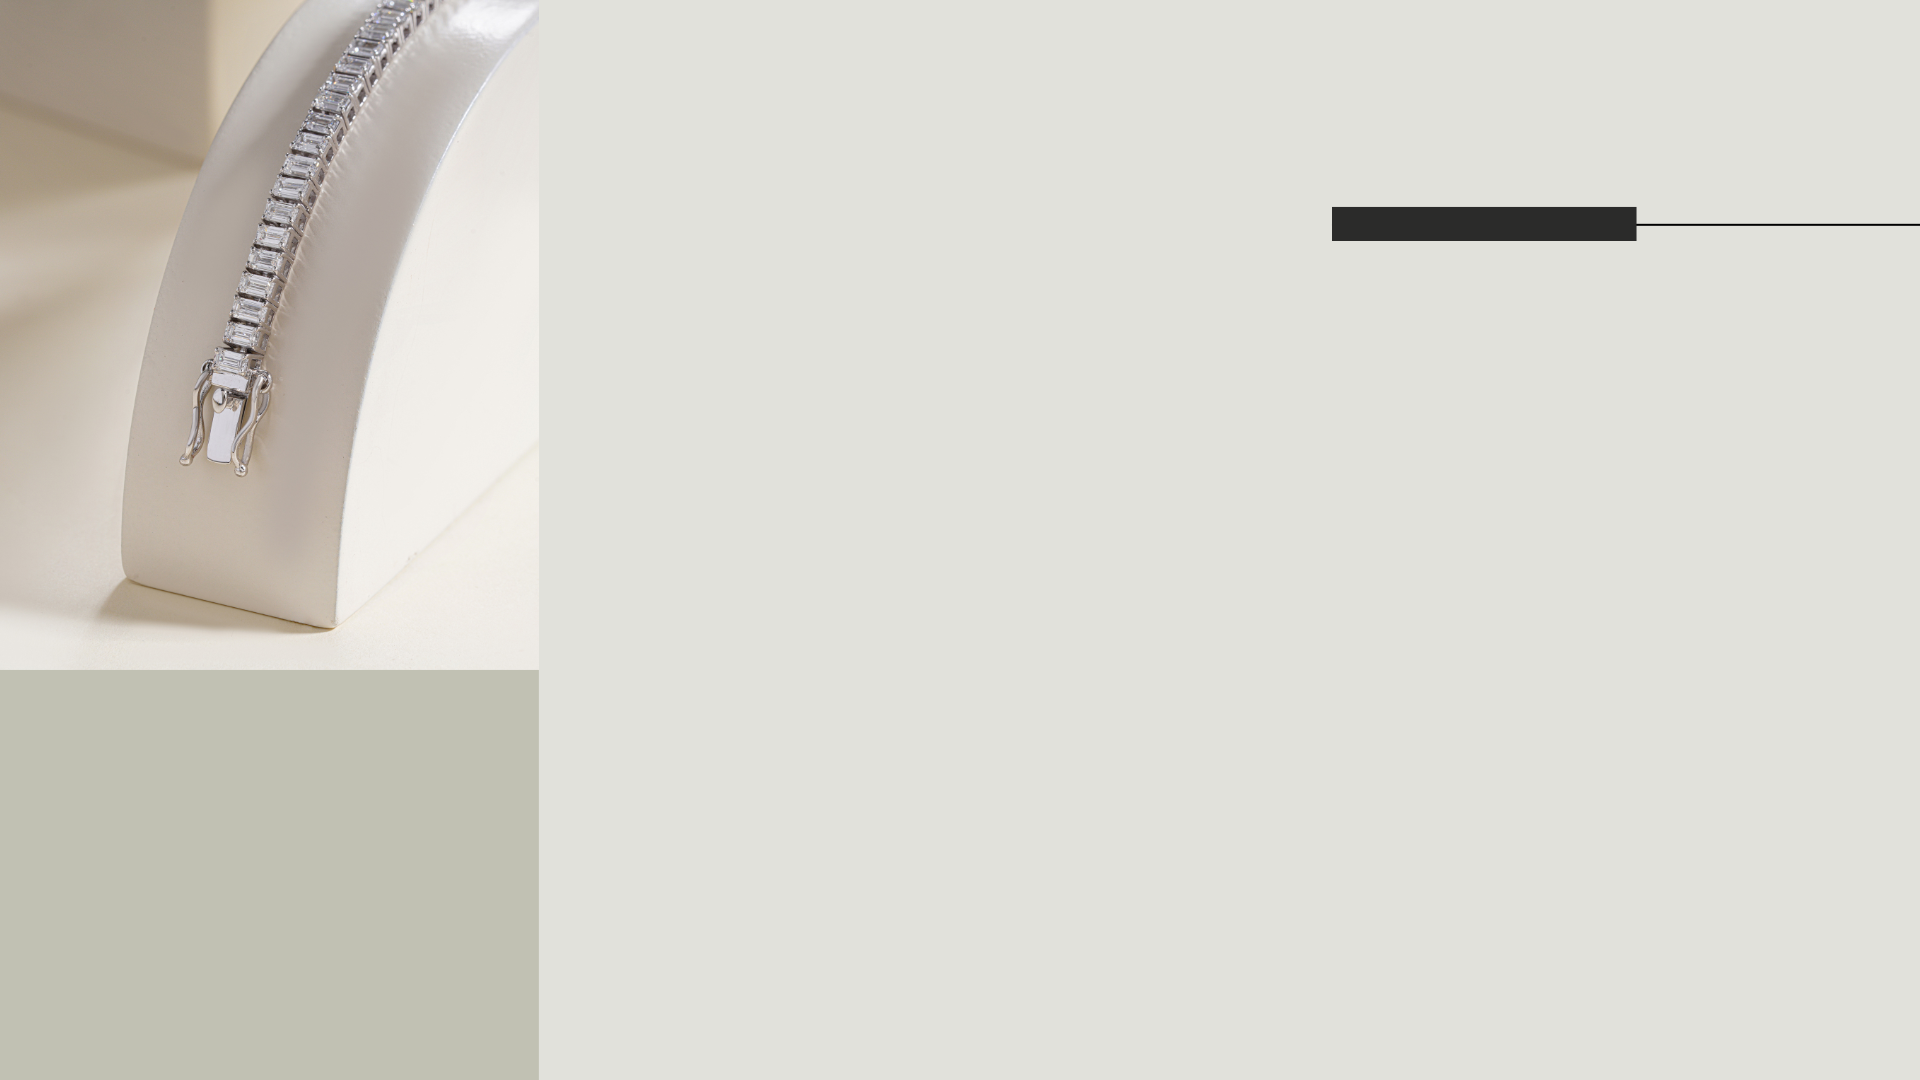
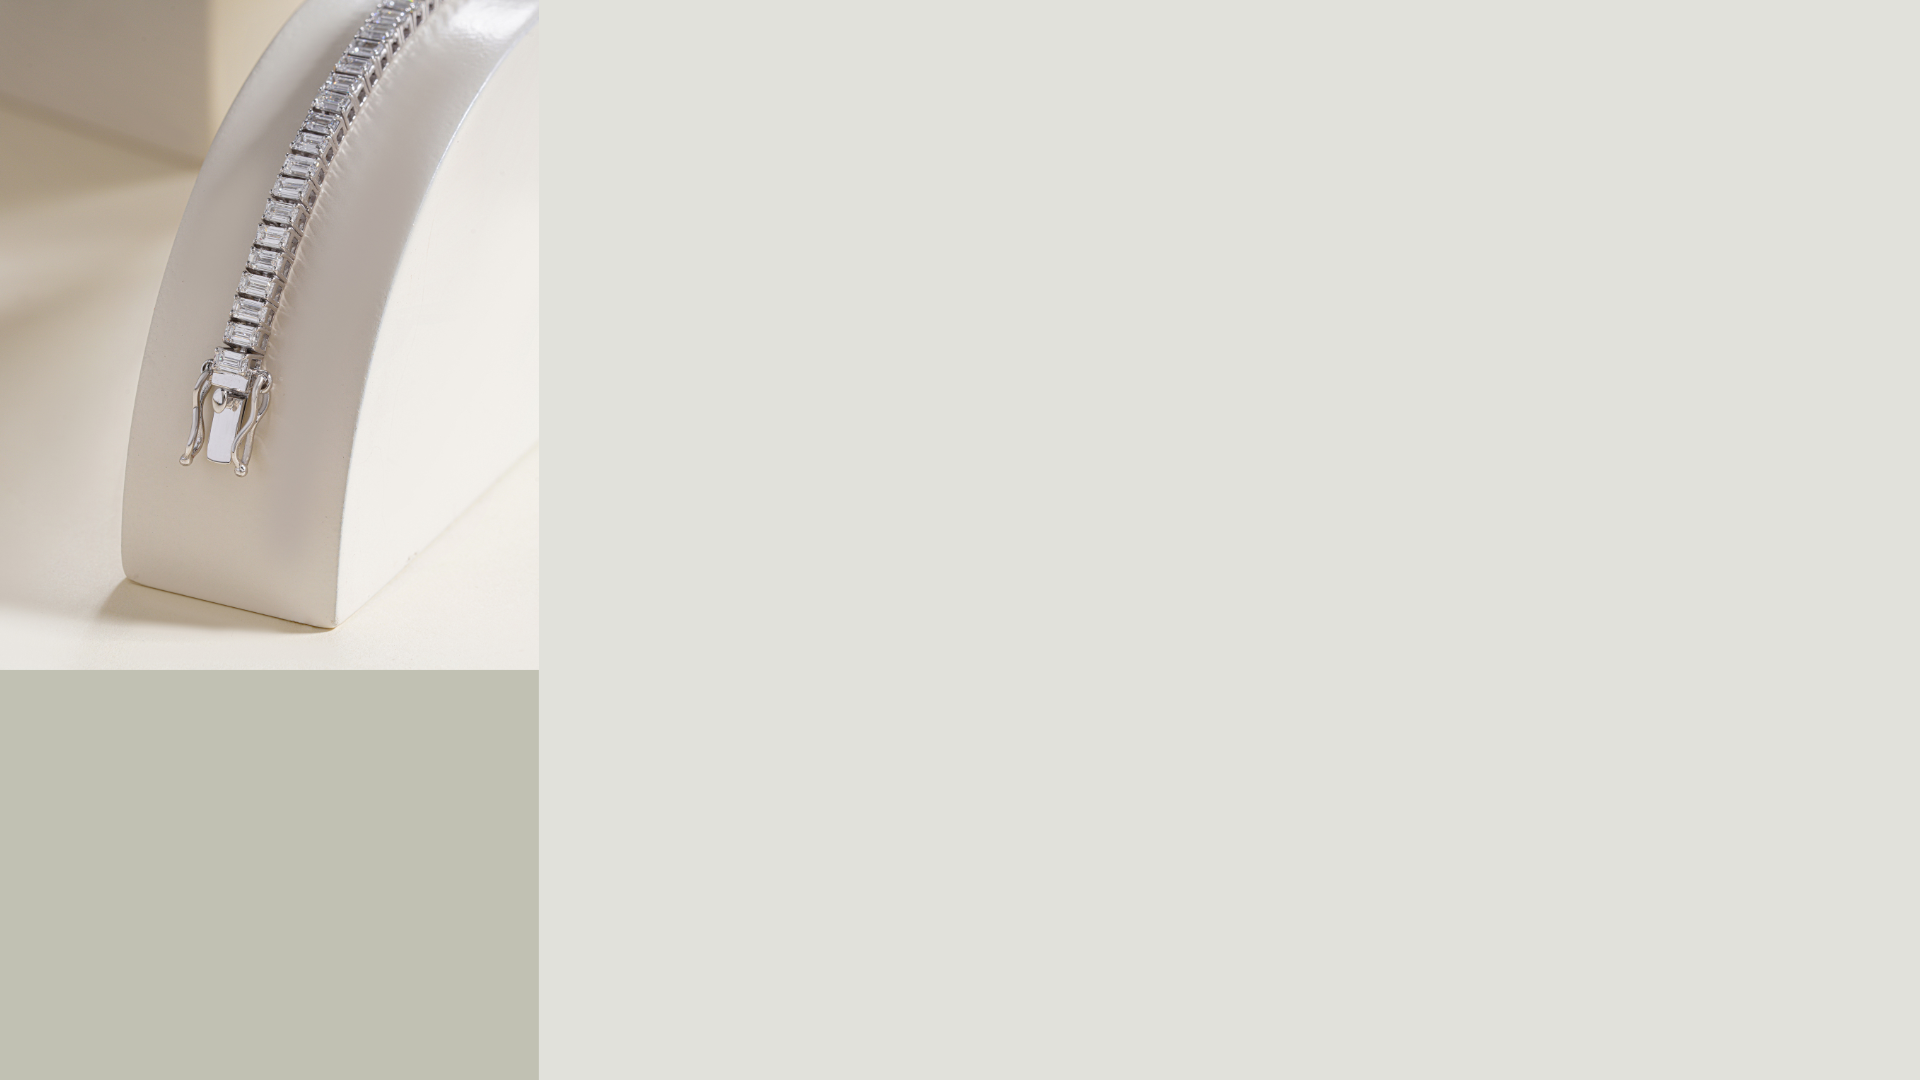
improve: mobile view

Changed region(s): [[0.6875, 0.1833, 0.875, 0.2444]]

diff --git a/src/components/CatalogSwiper.jsx b/src/components/CatalogSwiper.jsx
@@ -7,31 +7,68 @@ import "swiper/css/navigation";
 import "swiper/css/pagination";
 import "swiper/css/effect-fade";
 import WelcomePage from "@/components/WelcomePage";
-import Product from "@/components/Product";
 import ContactUs from "@/components/ContactUs";
 import AboutUs from "@/components/AboutUs";
+import { useEffect, useState, useRef } from "react";
+import { Pause, Play } from "lucide-react"; // Import play/pause icons
+import Products from "@/components/Products";
 
 const CatalogSwiper = () => {
+  const [isPlaying, setIsPlaying] = useState(true);
+  const [progress, setProgress] = useState(0);
+  const swiperRef = useRef(null);
+
+  useEffect(() => {
+    const prevButton = document.querySelector(".swiper-button-prev");
+    const nextButton = document.querySelector(".swiper-button-next");
+
+    if (prevButton && nextButton) {
+      prevButton.classList.add("text-black", "scale-50");
+      nextButton.classList.add("text-black", "scale-50");
+    }
+  }, []);
+
+  useEffect(() => {
+    if (swiperRef.current) {
+      const swiper = swiperRef.current.swiper;
+
+      const updateProgress = () => {
+        const currentSlide = swiper.realIndex + 1;
+        const totalSlides = swiper.slides.length;
+        setProgress((currentSlide / totalSlides) * 100);
+      };
+
+      swiper.on("slideChange", updateProgress);
+      return () => swiper.off("slideChange", updateProgress);
+    }
+  }, []);
+
+  const togglePlayPause = () => {
+    if (swiperRef.current) {
+      if (isPlaying) {
+        swiperRef.current.swiper.autoplay.stop();
+      } else {
+        swiperRef.current.swiper.autoplay.start();
+      }
+      setIsPlaying(!isPlaying);
+    }
+  };
+
   return (
-    <div className="flex justify-center items-center">
+    <div className="flex justify-center items-center relative">
       <Swiper
-        modules={[Navigation, Pagination, EffectFade, Autoplay]}
+        ref={swiperRef}
+        modules={[Navigation, Pagination, EffectFade]}
         navigation
         pagination={{ clickable: true }}
         effect="fade"
-        autoplay={{ delay: 3000, disableOnInteraction: false }}
-        cubeEffect={{
-          shadow: true,
-          slideShadows: true,
-          shadowOffset: 20,
-          shadowScale: 0.94,
-        }}
+        // autoplay={isPlaying ? { delay: 3000, disableOnInteraction: false } : false}
         className="xl:w-[140vmin] h-[95vmin] aspect-square"
       >
         {[
           { component: <WelcomePage />, key: "welcome" },
           { component: <AboutUs />, key: "about" },
-          { component: <Product />, key: "product" },
+          { component: <Products />, key: "product" },
           { component: <ContactUs />, key: "contact" },
         ].map(({ component, key }) => (
           <SwiperSlide
@@ -42,6 +79,24 @@ const CatalogSwiper = () => {
           </SwiperSlide>
         ))}
       </Swiper>
+
+      {/* Bottom Controls */}
+      <div className="absolute bottom-0 left-0 w-full bg-black bg-opacity-80 py-2 flex items-center justify-between px-4">
+        {/* Play/Pause Button */}
+        <button onClick={togglePlayPause} className="text-white">
+          {isPlaying ? <Pause size={24} /> : <Play size={24} />}
+        </button>
+
+        {/* Progress Bar */}
+        <div className="flex-grow mx-4">
+          <div className="relative w-full h-2 bg-gray-700 rounded">
+            <div
+              className="absolute top-0 left-0 h-2 bg-blue-500 rounded"
+              style={{ width: `${progress}%` }}
+            ></div>
+          </div>
+        </div>
+      </div>
     </div>
   );
 };

diff --git a/src/components/AboutUs.jsx b/src/components/AboutUs.jsx
@@ -1,10 +1,10 @@
-import React from 'react'
-import background from '../../public/images/about-us_bg.png'
-import Image from 'next/image'
+import React from 'react';
+import background from '../../public/images/about-us_bg.png';
+import Image from 'next/image';
 
 function AboutUs() {
     return (
-        <div className='relative w-full h-screen '>
+        <div className='relative w-full h-screen'>
             <Image
                 src={background}
                 alt="Banner Image"
@@ -12,28 +12,28 @@ function AboutUs() {
                 className="object-fill"
                 priority
             />
-            <div className='absolute left-1/3 top-[16%]'>
-                <h1 className='xl:text-7xl font-medium'>About Us</h1>
+            <div className='absolute left-1/3 xl:top-[12%] mt-3 flex justify-between items-center gap-10 w-2/3'>
+            <h1 className='xl:text-5xl text-sm font-bold '>ABOUT US</h1>
+                <div className="relative flex-1 h-[3px] bg-gray-400 ml-4">
+                    <div className="absolute left-0 top-1/2 xl:w-[140px] w-14 h-3 xl:h-[14px] bg-black -translate-y-1/2"></div>
+                </div>
             </div>
-            <div className='absolute  top-[28%] left-3/9 right-10'>
-                <p className='font-normal xl:text-xl'>
+            <div className='absolute xl:top-[20%] mt-8 left-1/3 xl:right-10'>
+                <p className='font-normal xl:text-xl text-xs xl:pb-2 pb-1'>
                     We are the grower and manufacturer of lab grown diamonds since 2019, situated in Surat, Gujarat, India. Our monthly manufacturing capacity exceeds 20,000 carats, spanning a range from 0.01 to 20 carats. Our artistic workshop encompasses the entire process of rough to polished diamonds. We have expertise in layouts, side stones pairs and colored stones which positions us as a large scale reputable supplier in the USA.
                 </p>
-                <br/>
-                <p className='font-normal xl:text-xl md:t'>
+                <p className='font-normal xl:text-xl text-xs xl:pb-2 pb-1'>
                     Competitive Pricing: Our diamonds are priced competitively, creating favorable opportunities for future business growth.
                 </p>
-                <br/>
-                <p className='font-normal xl:text-xl'>
+                <p className='font-normal xl:text-xl text-xs xl:pb-2 pb-1'>
                     Ready-to-Sell Inventory: We maintain a largescale, readily available inventory at our New York sales house to meet global demands efficiently.
                 </p>
-                <br/>
-                <p className='font-normal xl:text-xl'>
-                    Large Carat Stone Available : Our stock includes diamonds ranging from 5 to 12 carats, available in both Round and Fancy shapes, providing diverse options for the customers.
+                <p className='font-normal xl:text-xl text-xs xl:pb-2 pb-1'>
+                    Large Carat Stone Available: Our stock includes diamonds ranging from 5 to 12 carats, available in both Round and Fancy shapes, providing diverse options for the customers.
                 </p>
             </div>
         </div>
-    )
+    );
 }
 
-export default AboutUs
+export default AboutUs;

diff --git a/src/components/ContactUs.jsx b/src/components/ContactUs.jsx
@@ -1,11 +1,11 @@
-import React from 'react';
-import background from '../../public/images/contact-us.png';
-import Image from 'next/image';
+import React from "react";
+import background from "../../public/images/contact-us.png";
+import Image from "next/image";
 import { FaPhone, FaEnvelope } from "react-icons/fa";
 
 function ContactUs() {
     return (
-        <div className='relative h-screen w-full'>
+        <div className='relative w-full h-screen'>
             <Image
                 src={background}
                 alt="Banner Image"
@@ -13,21 +13,26 @@ function ContactUs() {
                 className="object-fill"
                 priority
             />
-            <h1 className='absolute top-[20%] text-6xl left-10'>
-                CONTACT US
-            </h1>
-            <div className="absolute top-1/2 left-10 p-6 space-y-4">
-                <div className="flex items-center space-x-3 text-2xl text-gray-900">
-                    <FaPhone className="text-black" />
+            <div className='absolute left-5 xl:left-10 xl:top-[12%] top-6 flex items-center gap-4 xl:gap-10 w-full px-4'>
+                <h1 className='text-base sm:text-lg xl:text-5xl font-bold'>CONTACT US</h1>
+                <div className="relative flex-1 h-[2px] bg-gray-400 w-full">
+                    <div className="absolute left-0 top-1/2 w-10 sm:w-14 xl:w-[140px] h-2 sm:h-3 xl:h-[14px] bg-black -translate-y-1/2"></div>
+                </div>
+            </div>
+            <div className="absolute top-1/4 xl:top-1/2 left-5 xl:left-10 p-4 space-y-3 xl:p-6 xl:space-y-4 max-w-xs sm:max-w-md xl:bg-transparent xl:shadow-none">
+                <div className="flex items-center space-x-2 xl:space-x-3 text-sm sm:text-lg xl:text-2xl text-black">
+                    <FaPhone className="text-black text-xs xl:text-xl" />
                     <span>+123-456-7890</span>
                 </div>
-                <div className="flex items-center space-x-3 text-2xl">
-                    <FaEnvelope className="text-black" />
+                <div className="flex items-center space-x-2 xl:space-x-3 text-sm sm:text-lg xl:text-2xl">
+                    <FaEnvelope className="text-black text-base xl:text-xl" />
                     <span>diamondatelierusa@gmail.com</span>
                 </div>
             </div>
-            <div className="absolute bottom-1/3 right-4 p-4 text-4xl font-medium text-right">
-                <p>You demand, <br /> we deliver.</p>
+            <div className="absolute bottom-1/3 xl:bottom-1/3 right-0 xl:right-8 p-1 xl:p-3 text-sm sm:text-base xl:text-2xl font-medium text-center">
+                <p>
+                    You demand, <br /> we deliver.
+                </p>
             </div>
         </div>
     );

diff --git a/src/components/WelcomePage.jsx b/src/components/WelcomePage.jsx
@@ -1,28 +1,39 @@
 import React from 'react'
 import Image from 'next/image'
+import { ChevronLeft } from 'lucide-react'
 import background from '../../public/images/background-catalog.png'
 
 function WelcomePage() {
   return (
-    <div className="relative w-full h-screen flex items-center justify-center">
+    <div className="relative w-full min-h-screen flex items-center justify-center overflow-hidden">
       <Image
         src={background}
         alt="Banner Image"
         fill
-        className="object-fill"
+        className="object-cover xl:pb-0 pb-24"
         priority
       />
-      <div className="absolute top-6 right-6 text-xl font-normal">
+
+      {/* Overlay for better readability */}
+      <div className="absolute inset-0" />
+
+      {/* Text Elements */}
+      <div className="absolute top-6 right-6 text-sm xl:text-xl font-normal text-black">
         Lab Grown Diamonds
       </div>
-      <div className="absolute xl:right-32 flex justify-center items-center mb-10 xl:text-5xl text-xl font-medium">
+      <div className="absolute xl:right-32 right-18 top-0 top-1/3 flex justify-center items-center mb-10 xl:text-5xl text-base font-bold text-black">
         DIAMOND ATELIER
       </div>
-      <div className="absolute bottom-24 left-10 text-xl font-normal">
+      <div className="absolute xl:bottom-24 xl:left-10 xl:text-xl text-xs left-1 bottom-1/4 font-normal text-black">
         Wholesale Catalogue 2025
       </div>
-      <div className="absolute bottom-24 right-10 flex justify-center items-center px-4 py-2">
-        <span className="xl:text-5xl text-xl font-normal">BRACELETS</span>
+
+      {/* Bracelets Section */}
+      <div className="absolute xl:bottom-1/7 bottom-1/4 right-1 xl:right-10 flex items-center xl:px-6 py-4">
+        {/* <ChevronLeft className="w-5 h-5 mr-3 text-black" /> */}
+        <span className="xl:text-4xl text-xs font-normal text-black">
+          BRACELETS
+        </span>
       </div>
     </div>
   )

diff --git a/src/components/Products.jsx b/src/components/Products.jsx
@@ -1,0 +1,33 @@
+import React from 'react'
+import bracelet from '../../public/images/bracelet.jpg'
+import Image from 'next/image'
+
+function Products() {
+    const braceletList = Array(8).fill({ img: bracelet, alt: "bracelet" });
+
+    return (
+        <div className='bg-[#e1e1db] px-6 py-4 h-screen pt-5'>
+            <p className="xl:text-base text-xs font-medium text-right">DIAMOND ATELIER</p>
+            <div className="flex justify-between items-center pb-2">
+            <div className="flex items-center w-full">
+                    <h1 className="xl:text-5xl font-semibold mr-4">Products</h1>
+                    <div className="flex-1 border-t border-gray-400"></div>
+                </div>
+            </div>
+            <div className="grid grid-cols-4 gap-4 mt-8 xl:mt-10">
+                {braceletList.map((item, index) => (
+                    <div key={index} className="w-full">
+                        <Image
+                            className="w-full h-auto"
+                            src={item.img}
+                            alt={item.alt}
+                            placeholder="blur"
+                        />
+                    </div>
+                ))}
+            </div>
+        </div>
+    )
+}
+
+export default Products

diff --git a/src/app/product/page.jsx b/src/app/product/page.jsx
@@ -1,10 +1,11 @@
-import Product from '@/components/Product'
+// import Product from '@/components/Product'
+import Products from '@/components/Products'
 import React from 'react'
 
 function page() {
   return (
     <div>
-        <Product/>
+        <Products/>
     </div>
   )
 }
